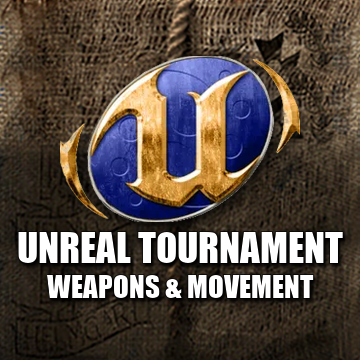
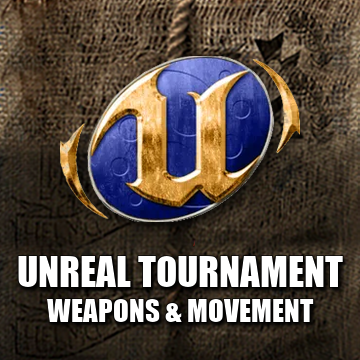
Workshop preview: the mod's name is 24 pixels lower, further from the emblem (build 1740)

Changed region(s): [[0.0306, 0.6417, 0.9778, 0.9167]]

diff --git a/unreal_tournament/tools/asset_conversion/make_item_preview.py b/unreal_tournament/tools/asset_conversion/make_item_preview.py
@@ -12,7 +12,7 @@ FONT = 'C\\:/Windows/Fonts/impact.ttf'
 
 LOGO_WIDTH = 240  # pixels
 LOGO_Y = 56
-LINES = [('UNREAL TOURNAMENT', 39, 232), ('WEAPONS & MOVEMENT', 29, 275)]  # text, size, top
+LINES = [('UNREAL TOURNAMENT', 39, 256), ('WEAPONS & MOVEMENT', 29, 299)]  # text, size, top
 
 TEMPLATE, ICON = sys.argv[1], sys.argv[2]
 
